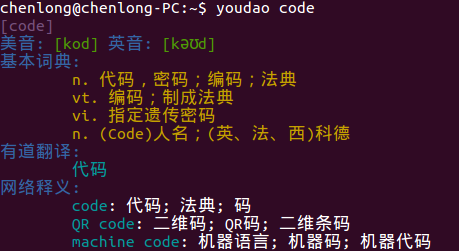
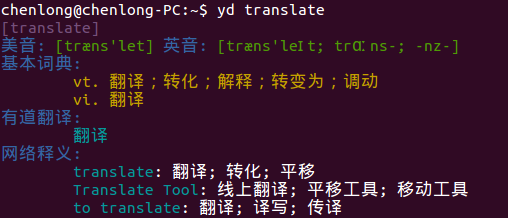
修改命令为yd

diff --git a/setup.py b/setup.py
@@ -2,7 +2,7 @@
 
 from setuptools import setup, find_packages
 
-version = '0.1'
+version = '0.1.1'
 
 setup(name='youdao',
       version=version,
@@ -21,7 +21,7 @@ setup(name='youdao',
       ],
       entry_points={
         'console_scripts':[
-            'youdao = youdao.youdao:main'
+            'yd = youdao.youdao:main',
         ]
       },
 )

diff --git a/README.md b/README.md
@@ -5,18 +5,18 @@
 ###1.运行效果
 支持中文，句子翻译
 
-	$ youdao keyword
+	$ yd keyword
 ![截图1](./pic1.png)
 
-	$ youdao
+	$ yd
 		input a word: 饺子
 ![截图2](./pic2.png)
 
 
 ###2.安装
 
-	python setup.py install
-安装好后在控制台直接调用youdao 或者 youdao keyword 即可
+	sudo python setup.py install
+安装好后在控制台直接调用yd 或者 yd keyword 即可
 
 ###3.设置自己的API key
 一个key 每分钟只能发起1000次请求，可以去有道自行申请一个API key，地址：
